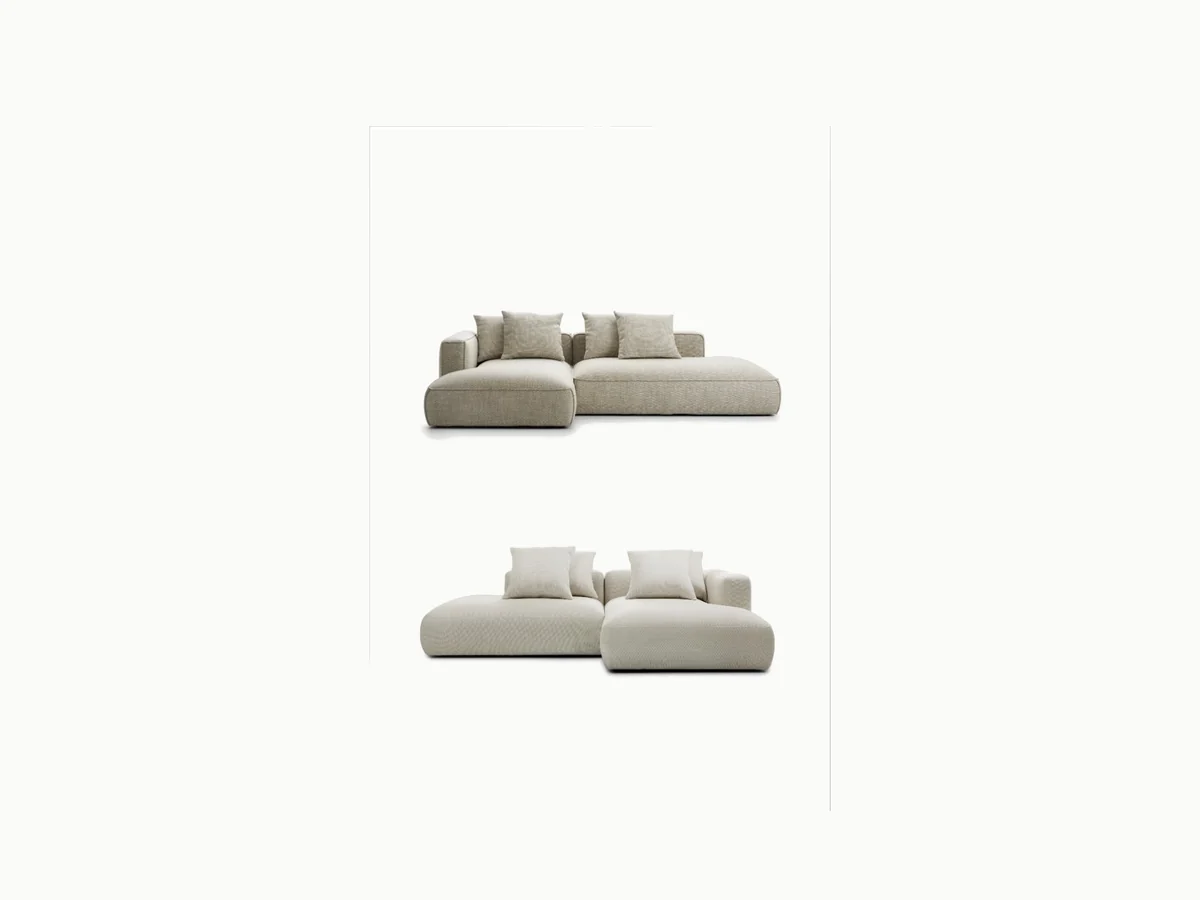
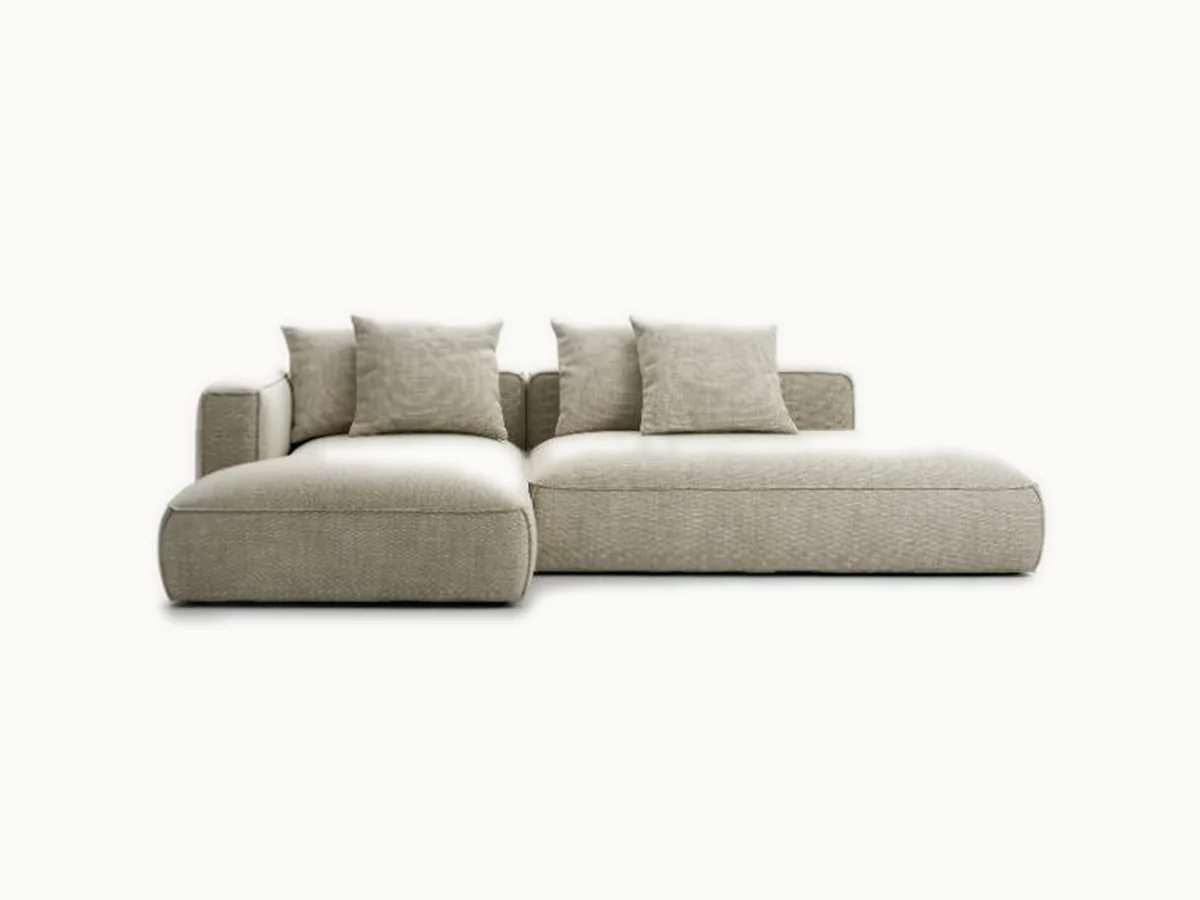
Grava: два ракурса второго фото разделены, кромка исходника убрана
Claude-Session: https://claude.ai/code/session_01YU1ch6YPskFUwqRi4VRrCW

Changed region(s): [[0.1233, 0.3422, 0.8942, 0.7778]]

diff --git a/dist/RICCA-site/en.html b/dist/RICCA-site/en.html
@@ -31,8 +31,8 @@
 <link rel="preload" as="image" href="img/v3/hero-sofa-cut.webp" imagesrcset="img/v3/hero-sofa-cut-720.webp 720w, img/v3/hero-sofa-cut-1400.webp 1400w, img/v3/hero-sofa-cut.webp 1978w" imagesizes="(min-width: 900px) 60vw, 100vw" fetchpriority="high">
 <link rel="preload" as="font" type="font/woff2" href="fonts/montserrat/montserrat-latin-var-normal.woff2" crossorigin>
 <link rel="preload" as="font" type="font/woff2" href="fonts/montserrat/montserrat-cyrillic-var-normal.woff2" crossorigin>
-<link rel="stylesheet" href="css/fonts-v3.css?v=e8144079c2">
-<link rel="stylesheet" href="css/site.css?v=e8144079c2">
+<link rel="stylesheet" href="css/fonts-v3.css?v=71064ee47c">
+<link rel="stylesheet" href="css/site.css?v=71064ee47c">
 <script>
 /* До первой отрисовки: no-js → js; решение о входе-«занавесе» (≤ 1,6 с). Не играем: повторный визит в этой сессии,
    prefers-reduced-motion, вход по ссылке с #якорем (Instagram → #catalog/sofas), недоступный sessionStorage.
@@ -641,12 +641,12 @@
 
 <div class="toast" id="toast" role="status" aria-live="polite" hidden><span id="toast-text"></span><button type="button" class="toast__open" id="toast-open">Open</button></div>
 
-<script src="js/catalog-data.js?v=e8144079c2" defer></script>
-<script src="js/works-data.js?v=e8144079c2" defer></script>
-<script src="js/models-data.js?v=e8144079c2" defer></script>
-<script src="js/fabrics-data.js?v=e8144079c2" defer></script>
-<script src="js/lang-en.js?v=e8144079c2" defer></script>
-<script src="js/cart.js?v=e8144079c2" defer></script>
-<script src="js/site.js?v=e8144079c2" defer></script>
+<script src="js/catalog-data.js?v=71064ee47c" defer></script>
+<script src="js/works-data.js?v=71064ee47c" defer></script>
+<script src="js/models-data.js?v=71064ee47c" defer></script>
+<script src="js/fabrics-data.js?v=71064ee47c" defer></script>
+<script src="js/lang-en.js?v=71064ee47c" defer></script>
+<script src="js/cart.js?v=71064ee47c" defer></script>
+<script src="js/site.js?v=71064ee47c" defer></script>
 </body>
 </html>

diff --git a/dist/RICCA-site/index.html b/dist/RICCA-site/index.html
@@ -31,8 +31,8 @@
 <link rel="preload" as="image" href="img/v3/hero-sofa-cut.webp" imagesrcset="img/v3/hero-sofa-cut-720.webp 720w, img/v3/hero-sofa-cut-1400.webp 1400w, img/v3/hero-sofa-cut.webp 1978w" imagesizes="(min-width: 900px) 60vw, 100vw" fetchpriority="high">
 <link rel="preload" as="font" type="font/woff2" href="fonts/montserrat/montserrat-latin-var-normal.woff2" crossorigin>
 <link rel="preload" as="font" type="font/woff2" href="fonts/montserrat/montserrat-cyrillic-var-normal.woff2" crossorigin>
-<link rel="stylesheet" href="css/fonts-v3.css?v=e8144079c2">
-<link rel="stylesheet" href="css/site.css?v=e8144079c2">
+<link rel="stylesheet" href="css/fonts-v3.css?v=71064ee47c">
+<link rel="stylesheet" href="css/site.css?v=71064ee47c">
 <script>
 /* До первой отрисовки: no-js → js; решение о входе-«занавесе» (≤ 1,6 с). Не играем: повторный визит в этой сессии,
    prefers-reduced-motion, вход по ссылке с #якорем (Instagram → #catalog/sofas), недоступный sessionStorage.
@@ -686,11 +686,11 @@
 
 <div class="toast" id="toast" role="status" aria-live="polite" hidden><span id="toast-text"></span><button type="button" class="toast__open" id="toast-open">Открыть</button></div>
 
-<script src="js/catalog-data.js?v=e8144079c2" defer></script>
-<script src="js/works-data.js?v=e8144079c2" defer></script>
-<script src="js/models-data.js?v=e8144079c2" defer></script>
-<script src="js/fabrics-data.js?v=e8144079c2" defer></script>
-<script src="js/cart.js?v=e8144079c2" defer></script>
-<script src="js/site.js?v=e8144079c2" defer></script>
+<script src="js/catalog-data.js?v=71064ee47c" defer></script>
+<script src="js/works-data.js?v=71064ee47c" defer></script>
+<script src="js/models-data.js?v=71064ee47c" defer></script>
+<script src="js/fabrics-data.js?v=71064ee47c" defer></script>
+<script src="js/cart.js?v=71064ee47c" defer></script>
+<script src="js/site.js?v=71064ee47c" defer></script>
 </body>
 </html>

diff --git a/dist/RICCA-site/configurator.html b/dist/RICCA-site/configurator.html
@@ -12,17 +12,17 @@
 <link rel="apple-touch-icon" href="img/v3/favicon-v3-180.png">
 <link rel="preload" as="font" type="font/woff2" href="fonts/montserrat/montserrat-latin-var-normal.woff2" crossorigin>
 <link rel="preload" as="font" type="font/woff2" href="fonts/montserrat/montserrat-cyrillic-var-normal.woff2" crossorigin>
-<link rel="stylesheet" href="css/fonts-v3.css?v=e8144079c2">
-<link rel="stylesheet" href="css/configurator.css?v=e8144079c2">
+<link rel="stylesheet" href="css/fonts-v3.css?v=71064ee47c">
+<link rel="stylesheet" href="css/configurator.css?v=71064ee47c">
 <script>document.documentElement.classList.replace('no-js', 'js');</script>
 <script type="importmap">{"imports":{"three":"./vendor/three/build/three.module.js","three/addons/":"./vendor/three/addons/"}}</script>
-<link rel="modulepreload" href="js/cfg/app.js?v=e8144079c2">
-<link rel="modulepreload" href="js/cfg/params.js?v=e8144079c2">
-<link rel="modulepreload" href="js/cfg/validate.js?v=e8144079c2">
-<link rel="modulepreload" href="js/cfg/share.js?v=e8144079c2">
-<link rel="modulepreload" href="js/cfg/fabrics.js?v=e8144079c2">
-<script defer src="js/fabrics-data.js?v=e8144079c2"></script>
-<script type="module" src="js/cfg/app.js?v=e8144079c2"></script>
+<link rel="modulepreload" href="js/cfg/app.js?v=71064ee47c">
+<link rel="modulepreload" href="js/cfg/params.js?v=71064ee47c">
+<link rel="modulepreload" href="js/cfg/validate.js?v=71064ee47c">
+<link rel="modulepreload" href="js/cfg/share.js?v=71064ee47c">
+<link rel="modulepreload" href="js/cfg/fabrics.js?v=71064ee47c">
+<script defer src="js/fabrics-data.js?v=71064ee47c"></script>
+<script type="module" src="js/cfg/app.js?v=71064ee47c"></script>
 </head>
 <body>
 <a class="skip" href="#steps">Перейти к&nbsp;параметрам</a>

diff --git a/dist/RICCA-site/js/catalog-data.js b/dist/RICCA-site/js/catalog-data.js
@@ -1578,8 +1578,8 @@ window.RICCA_CATALOG = [
     subtitle: "Модульный · низкий, с шезлонгом",
     photos: [
       {"src": "img/catalog/p-sofa-33.webp", "src600": "img/catalog/p-sofa-33-600.webp", "alt": "Низкий модульный диван с шезлонгом в сером меланже — на светлом фоне", "studio": true, "box": [0.74, 0.391], "w": 1200, "h": 900},
-      {"src": "img/catalog/p-sofa-33-2.webp", "src600": "img/catalog/p-sofa-33-2-600.webp", "alt": "Диван Grava с другой стороны — на светлом фоне", "studio": true, "box": [0.384, 0.76], "w": 1200, "h": 900},
-      {"src": "img/catalog/p-sofa-33-2-2.webp", "src600": "img/catalog/p-sofa-33-2-2-600.webp", "alt": "Диван Grava, шезлонг справа — на светлом фоне", "studio": true, "box": [0.74, 0.288], "w": 1200, "h": 900}
+      {"src": "img/catalog/p-sofa-33-2.webp", "src600": "img/catalog/p-sofa-33-2-600.webp", "alt": "Диван Grava с другой стороны — на светлом фоне", "studio": true, "box": [0.74, 0.341], "w": 1200, "h": 900},
+      {"src": "img/catalog/p-sofa-33-2-2.webp", "src600": "img/catalog/p-sofa-33-2-2-600.webp", "alt": "Диван Grava, шезлонг справа — на светлом фоне", "studio": true, "box": [0.74, 0.357], "w": 1200, "h": 900}
     ],
     description: "Низкий модульный диван с широким шезлонгом и секцией-кушеткой: мягкие подушки спинки в тон, кант по краям. Показан в сером меланже.",
     options: ["Модульный", "Шезлонг слева или справа", "Ткань или кожа"],

diff --git a/ricca/js/catalog-data.js b/ricca/js/catalog-data.js
@@ -1578,8 +1578,8 @@ window.RICCA_CATALOG = [
     subtitle: "Модульный · низкий, с шезлонгом",
     photos: [
       {"src": "img/catalog/p-sofa-33.webp", "src600": "img/catalog/p-sofa-33-600.webp", "alt": "Низкий модульный диван с шезлонгом в сером меланже — на светлом фоне", "studio": true, "box": [0.74, 0.391], "w": 1200, "h": 900},
-      {"src": "img/catalog/p-sofa-33-2.webp", "src600": "img/catalog/p-sofa-33-2-600.webp", "alt": "Диван Grava с другой стороны — на светлом фоне", "studio": true, "box": [0.384, 0.76], "w": 1200, "h": 900},
-      {"src": "img/catalog/p-sofa-33-2-2.webp", "src600": "img/catalog/p-sofa-33-2-2-600.webp", "alt": "Диван Grava, шезлонг справа — на светлом фоне", "studio": true, "box": [0.74, 0.288], "w": 1200, "h": 900}
+      {"src": "img/catalog/p-sofa-33-2.webp", "src600": "img/catalog/p-sofa-33-2-600.webp", "alt": "Диван Grava с другой стороны — на светлом фоне", "studio": true, "box": [0.74, 0.341], "w": 1200, "h": 900},
+      {"src": "img/catalog/p-sofa-33-2-2.webp", "src600": "img/catalog/p-sofa-33-2-2-600.webp", "alt": "Диван Grava, шезлонг справа — на светлом фоне", "studio": true, "box": [0.74, 0.357], "w": 1200, "h": 900}
     ],
     description: "Низкий модульный диван с широким шезлонгом и секцией-кушеткой: мягкие подушки спинки в тон, кант по краям. Показан в сером меланже.",
     options: ["Модульный", "Шезлонг слева или справа", "Ткань или кожа"],
